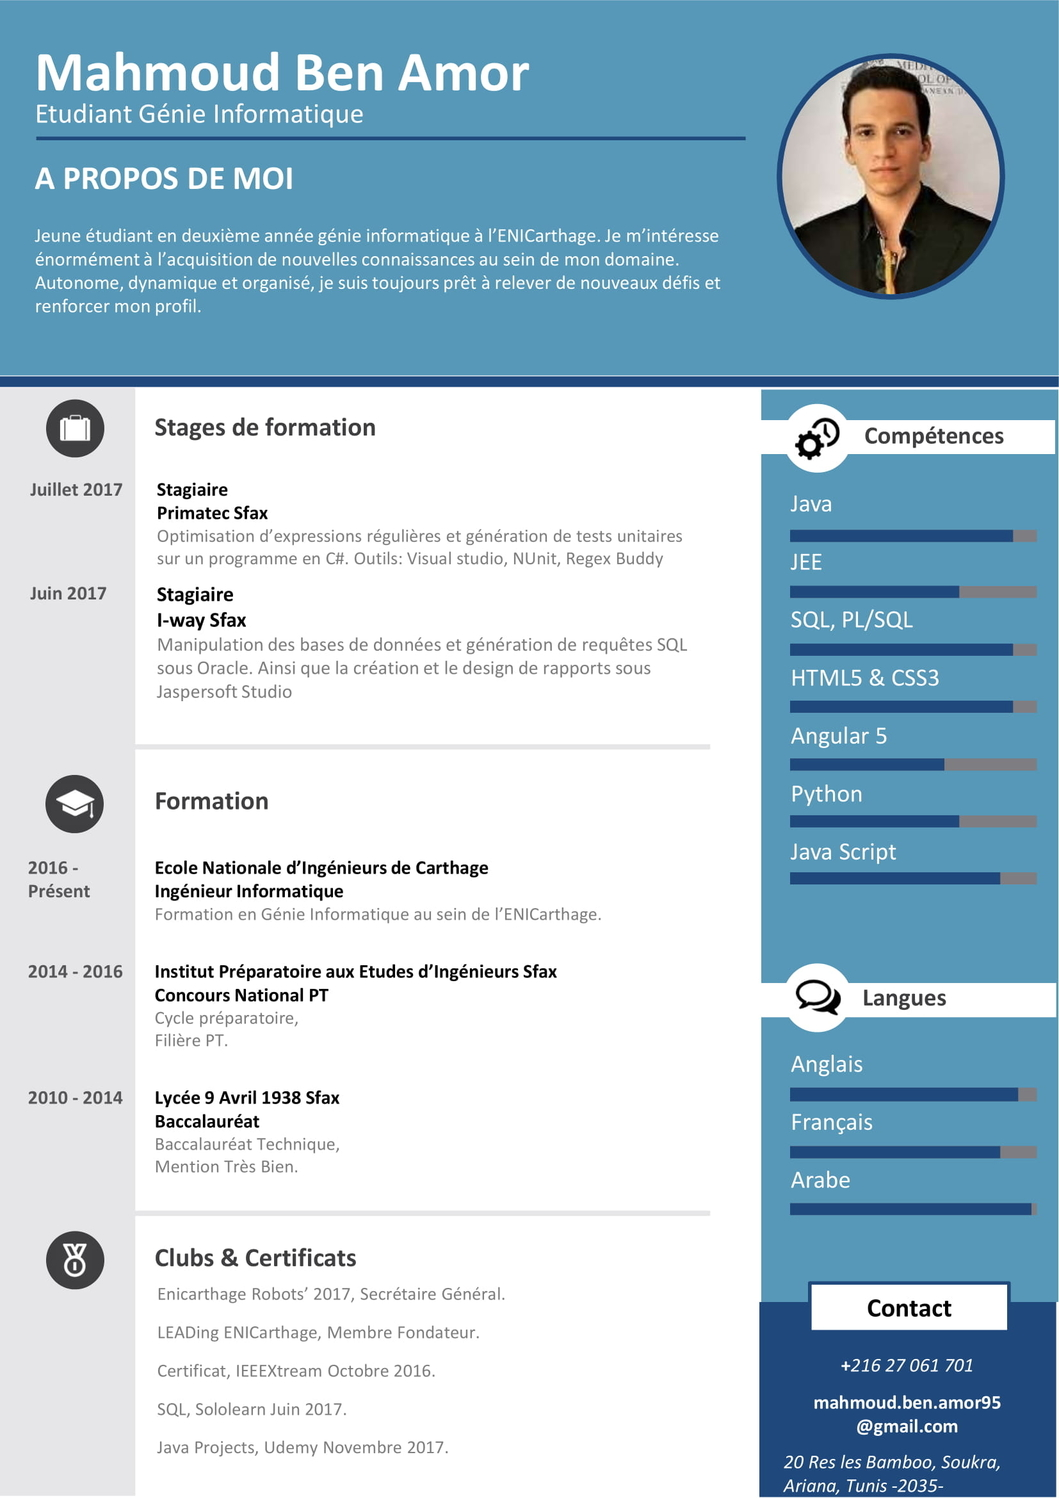
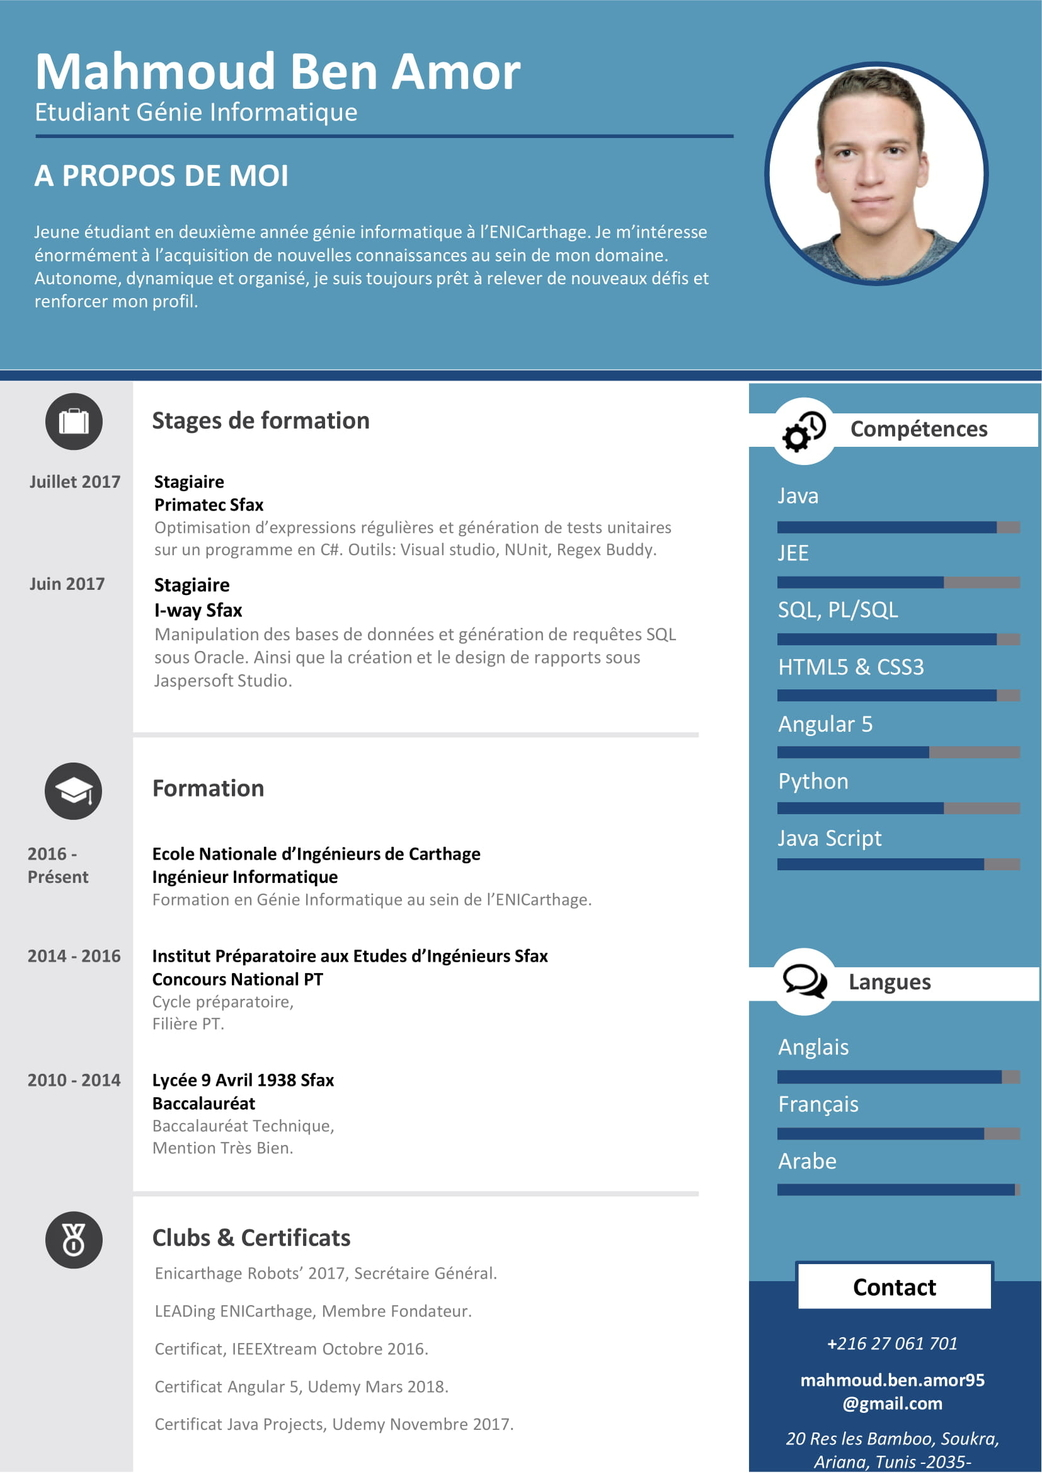
final

diff --git a/cv.html b/cv.html
@@ -14,3 +14,215 @@
     </body>
 </html>
     
+<!--<html>
+  <head>
+    <title>Professional Resume</title>
+    <link href="https://maxcdn.bootstrapcdn.com/font-awesome/4.7.0/css/font-awesome.min.css" rel="stylesheet" integrity="sha384-wvfXpqpZZVQGK6TAh5PVlGOfQNHSoD2xbE+QkPxCAFlNEevoEH3Sl0sibVcOQVnN" crossorigin="anonymous">
+    <link href="https://fonts.googleapis.com/css?family=Lato|Open+Sans" rel="stylesheet">
+    <style>
+      html {
+          background: url(../images/background.jpg) no-repeat center center fixed; 
+  -webkit-background-size: cover;
+  -moz-background-size: cover;
+  -o-background-size: cover;
+  background-size: cover;
+        background-color: #444;
+        padding: 0 1em;
+      }
+      body {
+        background-color: #FFF;
+        font-family: 'Lato', sans-serif;
+        margin: 1em auto;
+        max-width: 50em;
+        height: 52.625em;
+      }
+      #section-left {
+        width: 35%;
+        float: left;
+        height: 100%;
+        background-color: #477890;
+        color: #fff;
+        text-align: center;
+      }
+        #section-left img{
+            border-radius: 50%;
+            margin-top: 25px;
+        }
+      #section-left .section {
+        
+        padding: 1em;
+      }
+      #section-left .section .logo {
+        height: 150px;
+        width: 150px;
+        border-radius: 50%;
+        margin: 0 auto;
+        background: url('http://jaipurstudents.com/broker/wp-content/uploads/2015/10/dummy-logo-300x140.png');
+      }
+      .intro hr {
+        width: 4em;
+        display: block;
+        height: 2px;
+        border: 0px;
+        border-top: 2px solid;
+      }
+      .dob {
+        text-decoration: overline underline;
+      }
+      .intro .content {
+        margin-bottom: 20px;
+      }
+      #contact {
+        margin-top: 40px;
+      }
+      h1 {
+        font-family: 'Open Sans', sans-serif;
+        text-transform: uppercase;
+      }
+      #section-right {
+        width: 65%;
+        float: right;
+        /*height: 100%;*/
+      }
+      #section-right .section {
+        margin: 0 0 30px 0;
+      }
+      .wrapper {
+        padding: 2em;
+      }
+      .fa {
+        margin-right: 15px;
+      }
+      .wrapper .title {
+        color: #E0777D;
+        font-size: 1.3em;
+        font-variant: small-caps;
+        letter-spacing: 0.1em;
+        font-weight: bold;
+        border-bottom: 2px solid #f2f2f2;
+      }
+      a:link {
+        color: #fff;
+        text-decoration: none;
+      }
+      a:visited {
+        color: #fff;
+        text-decoration: none;
+      }
+      a:hover {
+        color: #fff;
+        text-decoration: none;
+      }
+      a:active {
+        color: #fff;
+        text-decoration: none;
+      }
+      h2 {
+        text-transform: uppercase;
+        font-size: 1em;
+      }
+      h3 {
+        font-size: 0.8em;
+        text-transform: uppercase;
+        font-weight: normal;
+      }
+    </style>
+  </head>
+
+  <body>
+    <div id="section-left">
+        <img src="images/me1.jpg">
+      <div class="section intro">
+        <h1>Mahmoud Ben Amor</h1>
+        <div class="content">
+          <span class="dob">23 APR 1996</span> <br>
+          <span class="intro">Developer</span> <br>
+          <span class="title">GoLang</span>
+        </div>
+        <hr>
+        <div id="contact">
+
+          <span class="num">9843xxxxxx</span>
+
+          <div class="email">
+            <i class="fa fa-envelope-open-o" aria-hidden="true"></i>
+            <a href="mailto:rambahadur@example.com">rambahadur@example.com</a>
+          </div>
+          <div class="web">
+            <i class="fa fa-link" aria-hidden="true"></i>
+            <a href="https://example.com">www.example.com</a>
+          </div>
+        </div>
+      </div>
+    </div>
+
+    <div id="section-right">
+      <div class="wrapper">
+        <div class="section">
+          <div class="title">
+            <i class="fa fa-user" aria-hidden="true"></i>
+            Profile
+          </div>
+          <p>I am an intermediately experienced developer</p>
+        </div>
+
+        <div class="section">
+          <div class="title">
+            <i class="fa fa-pencil" aria-hidden="true"></i>
+            Experience
+          </div>
+          <div class="content">
+            <h2>Web Developer</h2>
+            <h3>Company | AUG 2016 &raquo; Current</h3>
+            <ul>
+              <li>Develop feature for the platform</li>
+              <li>Develop feature for the platform</li>
+            </ul>
+          </div>
+
+          <div class="content">
+            <h2>Web Developer</h2>
+            <h3>Company | AUG 2016 &raquo; Current</h3>
+            <ul>
+              <li>Develop feature for the platform</li>
+              <li>Develop feature for the platform</li>
+            </ul>
+          </div>
+        </div>
+
+        <div class="section">
+          <div class="title">
+            <i class="fa fa-book" aria-hidden="true"></i>
+            Education
+          </div>
+          <p>I have completed my Bachelors Degree and currently pursuing masters</p>
+
+        </div>
+
+        <div class="section">
+          <div class="title">
+            <i class="fa fa-book" aria-hidden="true"></i>
+            Skills
+          </div>
+          <ul>
+            <li>Programming</li>
+            <li>Photo Editing</li>
+            <li>Project Management</li>
+          </ul>
+        </div>
+
+        <div class="section">
+          <div class="title">
+            <i class="fa fa-trophy" aria-hidden="true"></i>
+            Awards
+          </div>
+          <div class="content">
+            <h2>National Coding Championship</h2>
+            <h3>Champion</h3>
+            <span class="date">2006</span>
+          </div>
+        </div>
+      </div>
+    </div>
+  </body>
+</html>-->

diff --git a/index.html b/index.html
@@ -2,14 +2,12 @@
 <html>
     <head>
         <title>CV / Portfolio</title>
-        <meta name="viewport" content="width=device-width, initial-scale=1, maximum-scale=1, minimum-scale=1″ />
         <link rel=stylesheet type="text/css" href="CSS/master.css">
         <link href="https://maxcdn.bootstrapcdn.com/font-awesome/4.7.0/css/font-awesome.min.css" rel="stylesheet" integrity="sha384-wvfXpqpZZVQGK6TAh5PVlGOfQNHSoD2xbE+QkPxCAFlNEevoEH3Sl0sibVcOQVnN" crossorigin="anonymous">
-        <link rel="stylesheet" href="https://maxcdn.bootstrapcdn.com/bootstrap/4.0.0/css/bootstrap.min.css" integrity="sha384-Gn5384xqQ1aoWXA+058RXPxPg6fy4IWvTNh0E263XmFcJlSAwiGgFAW/dAiS6JXm" crossorigin="anonymous">
     </head>
     <body>
         <div class = "prof-box">
-            <img src="images/me1.jpg" class="prof-pic">
+            <img src="images/scan41.jpg" class="prof-pic" >
             <br><br>
             <h1 class="nomprenom">Mahmoud Ben Amor</h1>
             <h5>Etudiant Génie Informatique | ENICarthage</h5>

diff --git a/CSS/master.css b/CSS/master.css
@@ -28,6 +28,7 @@ body{
 
 .prof-box img{
     margin-top: 50px;
+    
 }
 h1{
     font-weight: 100;
